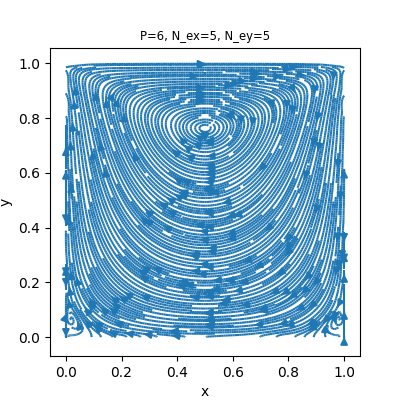
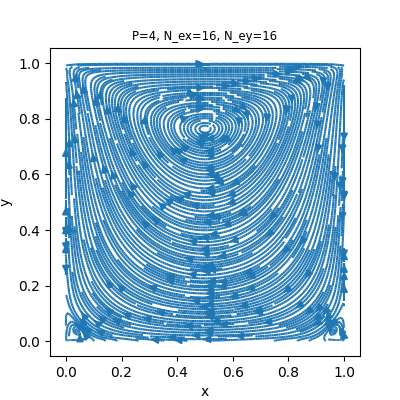
added apply_linear; misc

diff --git a/Examples/Boussinesq_OpenMDAO.py b/Examples/Boussinesq_OpenMDAO.py
@@ -23,11 +23,11 @@ Possible reference solutions from MARKATOS-PERICLEOUS (doi.org/10.1016/0017-9310
 L_x = 1.    # length in x direction
 L_y = 1.    # length in y direction
 Re = 1.     # REYNOLDS number
-Ra = 1.e4   # RAYLEIGH number
+Ra = 1.e3   # RAYLEIGH number
 Pr = 0.71   # PRANDTL number
-P = 5       # polynomial order
-N_ex = 6    # num of elements in x direction
-N_ey = 6    # num of elements in y direction
+P = 4       # polynomial order
+N_ex = 16   # num of elements in x direction
+N_ey = 16   # num of elements in y direction
 tol = 1e-3  # tolerance on residuals
 
 # grid
@@ -44,15 +44,15 @@ T[np.isclose(points[0], L_x)] = 0.5
 # initialize OpenMDAO solver
 prob = om.Problem()
 model = prob.model
-model.add_subsystem('NavierStokes', NavierStokes(L_x=L_x, L_y=L_y, Re=Re, Gr=Ra/Pr,
-                                                 P=P, N_ex=N_ex, N_ey=N_ey, points=points))
 model.add_subsystem('ConvectionDiffusion', ConvectionDiffusion(L_x=L_x, L_y=L_y, Pe=Re*Pr, T_W=0.5, T_E=-0.5,
                                                                P=P, N_ex=N_ex, N_ey=N_ey, points=points))
+model.add_subsystem('NavierStokes', NavierStokes(L_x=L_x, L_y=L_y, Re=Re, Gr=Ra/Pr,
+                                                 P=P, N_ex=N_ex, N_ey=N_ey, points=points))
 model.connect('NavierStokes.u', 'ConvectionDiffusion.u')
 model.connect('NavierStokes.v', 'ConvectionDiffusion.v')
 model.connect('ConvectionDiffusion.T', 'NavierStokes.T')
 model.nonlinear_solver = om.NewtonSolver(iprint=2, solve_subsystems=True, maxiter=100, atol=tol, rtol=1e-18)
-model.nonlinear_solver.linesearch = om.ArmijoGoldsteinLS(iprint=2, maxiter=10, rho=0.8, c=0.2)
+model.nonlinear_solver.linesearch = om.ArmijoGoldsteinLS(iprint=2, maxiter=5, rho=0.8, c=0.2)
 model.linear_solver = om.LinearRunOnce()
 prob.setup()
 # om.n2(prob) # prints N2-diagram
@@ -72,13 +72,13 @@ v_e = SEM.scatter(v, P, N_ex, N_ey)
 T_e = SEM.scatter(T, P, N_ex, N_ey)
 
 # plot
-x_plot, y_plot = np.meshgrid(np.linspace(0, L_x, 51), np.linspace(0, L_y, 51), indexing='ij')
+x_plot, y_plot = np.meshgrid(np.linspace(0, L_x, 101), np.linspace(0, L_y, 101), indexing='ij')
 u_plot = SEM.eval_interpolation(u_e, points_e, (x_plot, y_plot))
 v_plot = SEM.eval_interpolation(v_e, points_e, (x_plot, y_plot))
 T_plot = SEM.eval_interpolation(T_e, points_e, (x_plot, y_plot))
 fig = plt.figure(figsize=(L_x*6, L_y*6))
 ax = fig.gca()
-ax.streamplot(x_plot.T, y_plot.T, u_plot.T, v_plot.T, density=2.5)
+ax.streamplot(x_plot.T, y_plot.T, u_plot.T, v_plot.T, density=3)
 CS = ax.contour(x_plot, y_plot, T_plot, levels=11, colors='k', linestyles='solid')
 ax.clabel(CS, inline=True)
 ax.set_title(f"Re={Re:.0e}, Ra={Ra:.0e}, Pr={Pr}, P={P}, N_ex={N_ex}, N_ey={N_ey}, tol={tol:.0e}",

diff --git a/OpenMDAO_components/ConvectionDiffusion.py b/OpenMDAO_components/ConvectionDiffusion.py
@@ -105,19 +105,26 @@ class ConvectionDiffusion(om.ImplicitComponent):
         self.Jac_T_u = self.Pe * sparse.tensordot(self.C_x, T, (2, 0), return_type=sparse.COO).tocsr()
         self.Jac_T_v = self.Pe * sparse.tensordot(self.C_y, T, (2, 0), return_type=sparse.COO).tocsr()
 
+    def apply_linear(self, inputs, outputs, d_inputs, d_outputs, d_residuals, mode):
+        if mode != 'fwd':
+            raise ValueError('only forward mode implemented')
+
+        d_residuals['T'] = self.Jac_T_u @ d_inputs['u'] + self.Jac_T_v @ d_inputs['v']
+        d_residuals['T'][self.mask_dir] = 0  # apply DIRICHLET conditions
+
     def solve_linear(self, d_outputs, d_residuals, mode):
         if mode != 'fwd':
             raise ValueError('only forward mode implemented')
 
-        def precon_mv(y):  # pure diffusion as preconditioner
-            x = np.zeros(self.N)
-            x[self.mask_dir] = y[self.mask_dir]
-            y[~self.mask_dir] -= self.K[~self.mask_dir, :][:, self.mask_dir] @ y[self.mask_dir]
-            x[~self.mask_dir], info = linalg.cg(self.K[~self.mask_dir, :][:, ~self.mask_dir],
-                                                y[~self.mask_dir], atol=1e-6, tol=0)
+        def precon_mv(c):  # pure diffusion as preconditioner
+            z = np.zeros(self.N)
+            z[self.mask_dir] = c[self.mask_dir]
+            c[~self.mask_dir] -= self.K[~self.mask_dir, :][:, self.mask_dir] @ c[self.mask_dir]
+            z[~self.mask_dir], info = linalg.cg(self.K[~self.mask_dir, :][:, ~self.mask_dir],
+                                                c[~self.mask_dir], atol=1e-6, tol=0)
             if info != 0:
                 raise RuntimeError(f'ConvectionDiffusion precon CG: Failed to converge in {info} iterations')
-            return x
+            return z
         precon_LO = linalg.LinearOperator((self.N,)*2, precon_mv)
 
         def jac_mv(dT):

diff --git a/Examples/Stokes_SciPy.py b/Examples/Stokes_SciPy.py
@@ -19,9 +19,9 @@ Possible reference solutions from GHIA (doi.org/10.1016/0021-9991(82)90058-4).
 # setup
 L_x = 1     # length in x direction
 L_y = 1     # length in y direction
-P = 5       # polynomial order
-N_ex = 6    # num of elements in x direction
-N_ey = 6    # num of elements in y direction
+P = 4       # polynomial order
+N_ex = 16    # num of elements in x direction
+N_ey = 16    # num of elements in y direction
 u_lid = 1   # lid velocity
 
 # grid
@@ -74,7 +74,8 @@ v[~np.isnan(dirichlet_v)] = dirichlet_v[~np.isnan(dirichlet_v)]
 
 sol, info = linalg.gmres(S, np.hstack((np.nan_to_num(dirichlet_u, nan=0.),
                                        np.nan_to_num(dirichlet_v, nan=0.),
-                                       np.zeros(points.shape[1]))))
+                                       np.zeros(points.shape[1]))),
+                         callback=lambda res: print(res), callback_type='pr_norm')
 if info != 0:
     raise RuntimeError('GMRES failed to converge')
 u, v, p = np.split(sol, 3)

diff --git a/OpenMDAO_components/NavierStokes.py b/OpenMDAO_components/NavierStokes.py
@@ -135,6 +135,13 @@ class NavierStokes(om.ImplicitComponent):
         self.Jac_v_u.eliminate_zeros()
         self.Jac_v_v.eliminate_zeros()
 
+    def apply_linear(self, inputs, outputs, d_inputs, d_outputs, d_residuals, mode):
+        if mode != 'fwd':
+            raise ValueError('only forward mode implemented')
+
+        d_residuals['v'] = - self.Gr_over_Re * self.M @ d_inputs['T']
+        d_residuals['v'][self.mask_bound] = 0  # apply DIRICHLET conditions
+
     def solve_linear(self, d_outputs, d_residuals, mode):
         if mode != 'fwd':
             raise ValueError('only forward mode implemented')
